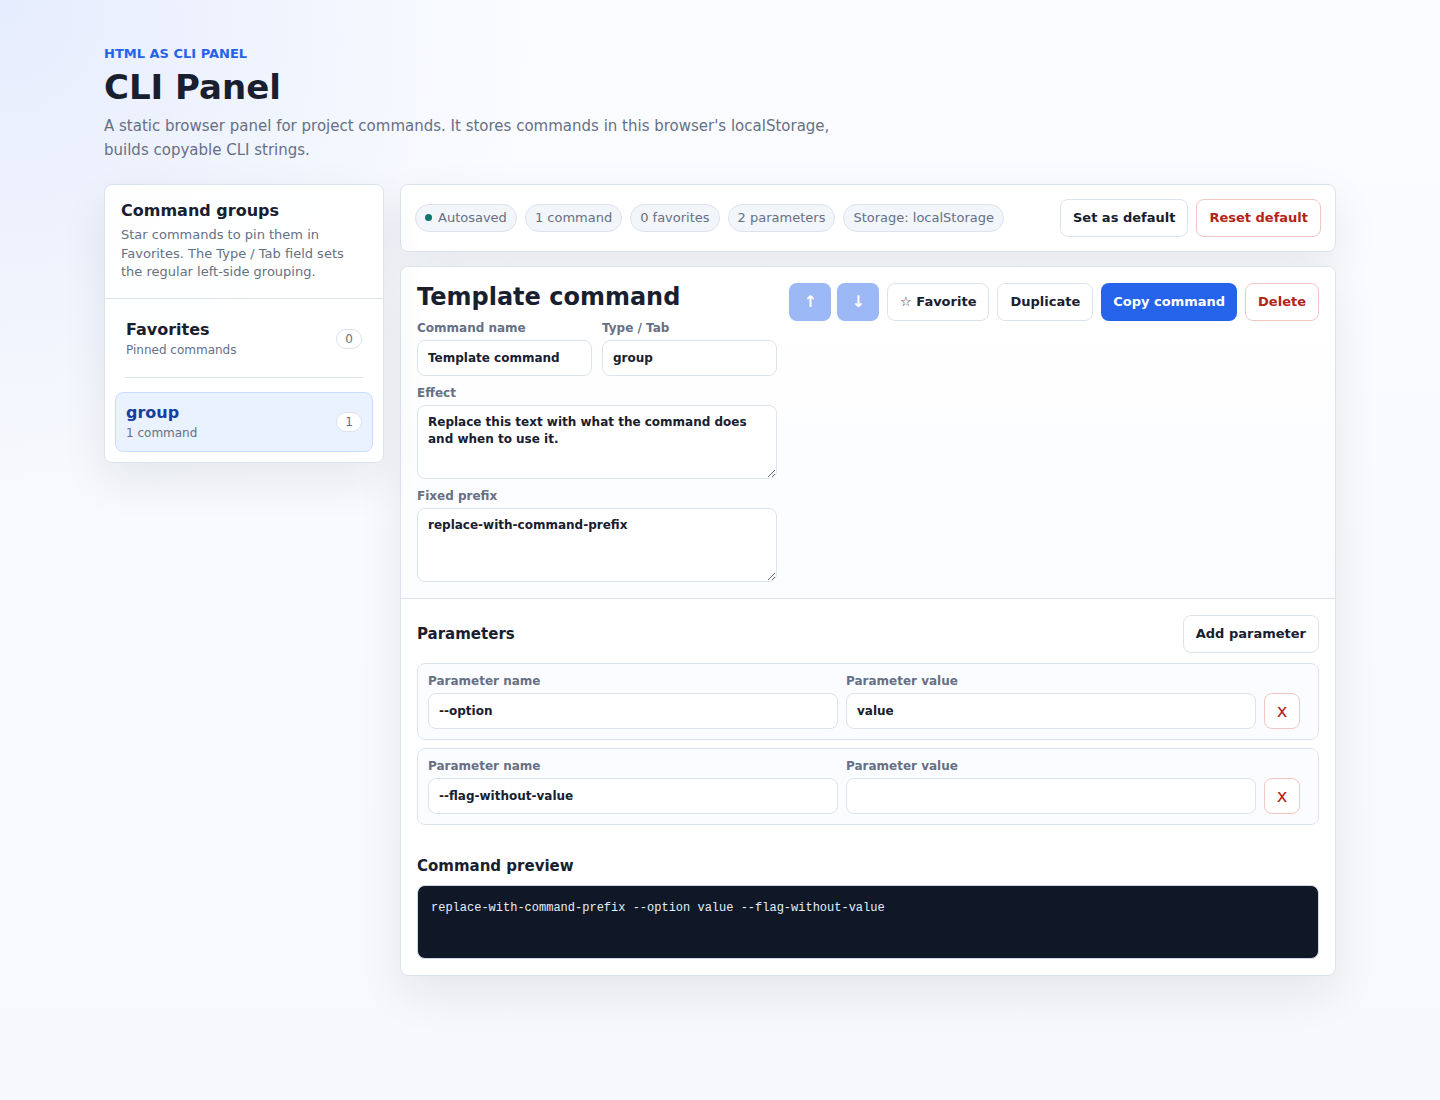
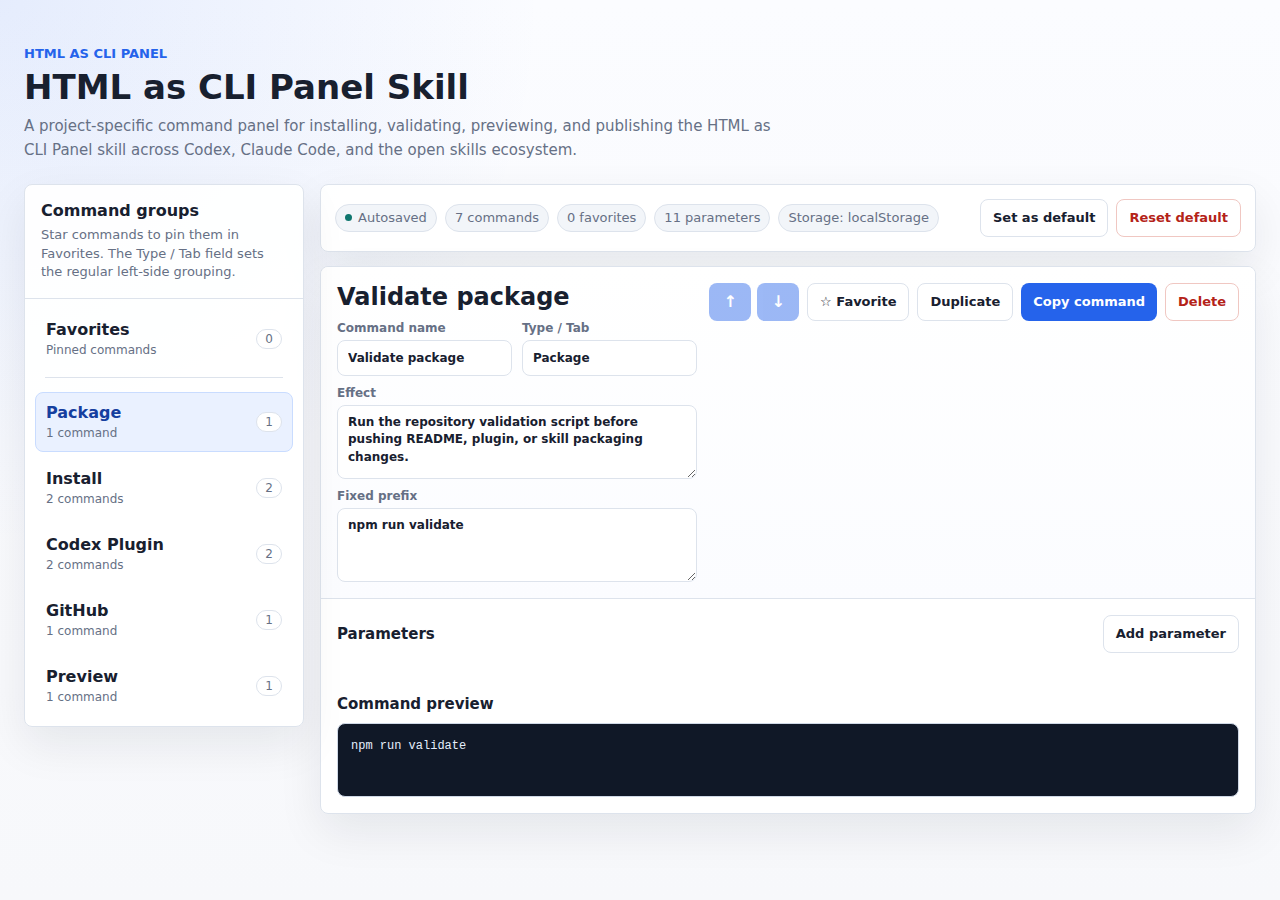
Replace demo with project command panel

diff --git a/docs/demo/cli-panel.html b/docs/demo/cli-panel.html
@@ -3,7 +3,7 @@
 <head>
   <meta charset="utf-8">
   <meta name="viewport" content="width=device-width, initial-scale=1">
-  <title>HTML as CLI Panel</title>
+  <title>HTML as CLI Panel Skill Commands</title>
   <style>
     :root {
       color-scheme: light;
@@ -532,8 +532,8 @@
     <header class="hero">
       <div>
         <p class="eyebrow">HTML as CLI Panel</p>
-        <h1>CLI Panel</h1>
-        <p class="subtitle">A static browser panel for project commands. It stores commands in this browser's localStorage, builds copyable CLI strings.</p>
+        <h1>HTML as CLI Panel Skill</h1>
+        <p class="subtitle">A project-specific command panel for installing, validating, previewing, and publishing the HTML as CLI Panel skill across Codex, Claude Code, and the open skills ecosystem.</p>
       </div>
     </header>
 
@@ -569,22 +569,84 @@
   <div class="toast" id="toast"></div>
 
   <script>
-    const storageKey = "REPLACE_WITH_PROJECT_SLUG.cli-panel.v1";
-    const defaultsKey = "REPLACE_WITH_PROJECT_SLUG.cli-panel.default.v1";
+    const storageKey = "html-as-cli-panel-skill.cli-panel.v1";
+    const defaultsKey = "html-as-cli-panel-skill.cli-panel.default.v1";
     const FAVORITES_TAB = "__favorites__";
     const FAVORITES_LABEL = "Favorites";
     const defaultState = {
-      activeType: "group",
+      activeType: "Package",
       commands: [
         {
           id: crypto.randomUUID(),
-          type: "group",
-          label: "Template command",
-          description: "Replace this text with what the command does and when to use it.",
-          fixedText: "replace-with-command-prefix",
+          type: "Package",
+          label: "Validate package",
+          description: "Run the repository validation script before pushing README, plugin, or skill packaging changes.",
+          fixedText: "npm run validate",
+          segments: []
+        },
+        {
+          id: crypto.randomUUID(),
+          type: "Install",
+          label: "Install with skills CLI",
+          description: "Install this skill through the open skills CLI for a selected agent and scope.",
+          fixedText: "npx skills add",
           segments: [
-            { id: crypto.randomUUID(), name: "--option", value: "value", widget: "text" },
-            { id: crypto.randomUUID(), name: "--flag-without-value", value: "", widget: "text" }
+            { id: crypto.randomUUID(), name: "", value: "rob163/html-as-cli-panel-skill", widget: "text" },
+            { id: crypto.randomUUID(), name: "--agent", value: "codex", widget: "text" },
+            { id: crypto.randomUUID(), name: "--global", value: "", widget: "text" },
+            { id: crypto.randomUUID(), name: "--yes", value: "", widget: "text" }
+          ]
+        },
+        {
+          id: crypto.randomUUID(),
+          type: "Install",
+          label: "Update installed skill",
+          description: "Refresh an already installed global skill when the GitHub repository has changed.",
+          fixedText: "npx skills update",
+          segments: [
+            { id: crypto.randomUUID(), name: "", value: "cli-panel", widget: "text" },
+            { id: crypto.randomUUID(), name: "--global", value: "", widget: "text" }
+          ]
+        },
+        {
+          id: crypto.randomUUID(),
+          type: "Codex Plugin",
+          label: "Add Codex marketplace",
+          description: "Register this repository as a Codex plugin marketplace before installing from Codex Desktop or the CLI plugin browser.",
+          fixedText: "codex plugin marketplace add",
+          segments: [
+            { id: crypto.randomUUID(), name: "", value: "rob163/html-as-cli-panel-skill", widget: "text" }
+          ]
+        },
+        {
+          id: crypto.randomUUID(),
+          type: "Codex Plugin",
+          label: "Install plugin shortcut",
+          description: "Install from the registered marketplace on Codex CLI builds that support the plugin add shortcut.",
+          fixedText: "codex plugin add",
+          segments: [
+            { id: crypto.randomUUID(), name: "", value: "html-as-cli-panel-skill@html-as-cli-panel-skill", widget: "text" }
+          ]
+        },
+        {
+          id: crypto.randomUUID(),
+          type: "GitHub",
+          label: "Set repository topics",
+          description: "Apply the GitHub About tags that describe the project and supported agent surfaces.",
+          fixedText: "gh repo edit rob163/html-as-cli-panel-skill",
+          segments: [
+            { id: crypto.randomUUID(), name: "--add-topic", value: "offline-html,codex,claude-code,cli-panel,command-ui,agent-skill,html-effectiveness", widget: "text" }
+          ]
+        },
+        {
+          id: crypto.randomUUID(),
+          type: "Preview",
+          label: "Serve documentation demo",
+          description: "Serve the GitHub Pages documentation folder locally to inspect the command panel before publishing.",
+          fixedText: "python3 -m http.server",
+          segments: [
+            { id: crypto.randomUUID(), name: "", value: "8000", widget: "number" },
+            { id: crypto.randomUUID(), name: "--directory", value: "docs", widget: "text" }
           ]
         }
       ]

diff --git a/README.md b/README.md
@@ -14,12 +14,12 @@ dependencies to the target project.
 
 <p align="center">
   <a href="https://rob163.github.io/html-as-cli-panel-skill/demo/cli-panel.html">
-    <img src="./docs/images/cli-panel-preview.png" alt="CLI Panel template preview" width="100%">
+    <img src="./docs/images/cli-panel-preview.png" alt="HTML as CLI Panel Skill command panel preview" width="100%">
   </a>
 </p>
 
 <p align="center">
-  <a href="https://rob163.github.io/html-as-cli-panel-skill/demo/cli-panel.html"><strong>Open the live template demo</strong></a>
+  <a href="https://rob163.github.io/html-as-cli-panel-skill/demo/cli-panel.html"><strong>Open the live project command panel</strong></a>
 </p>
 
 ## Install
